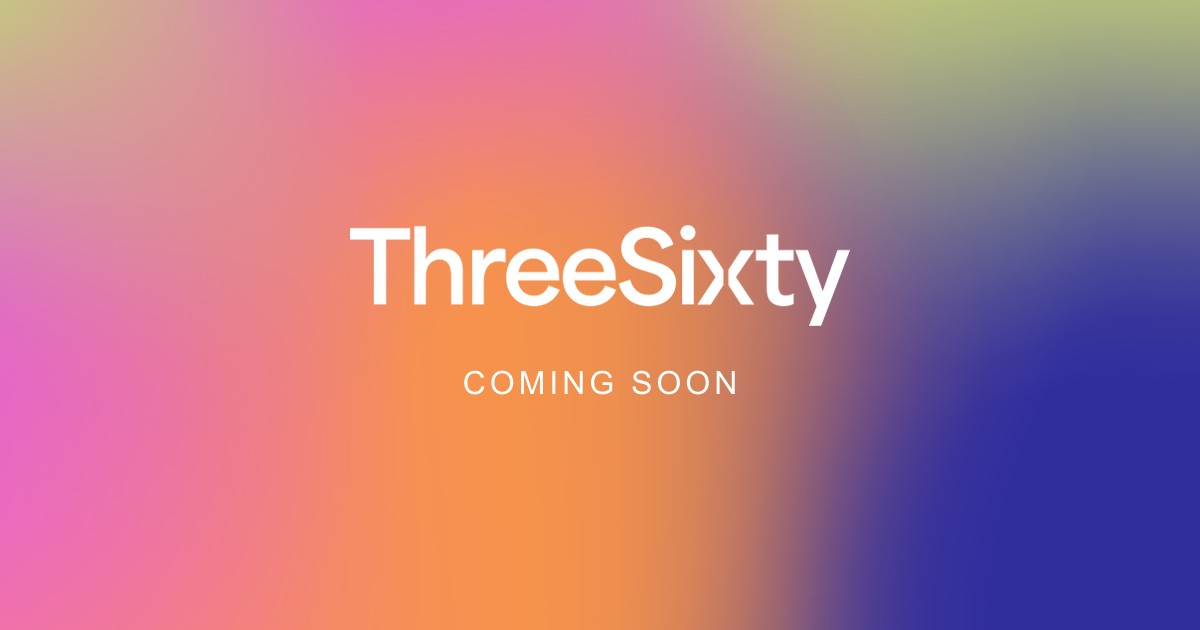
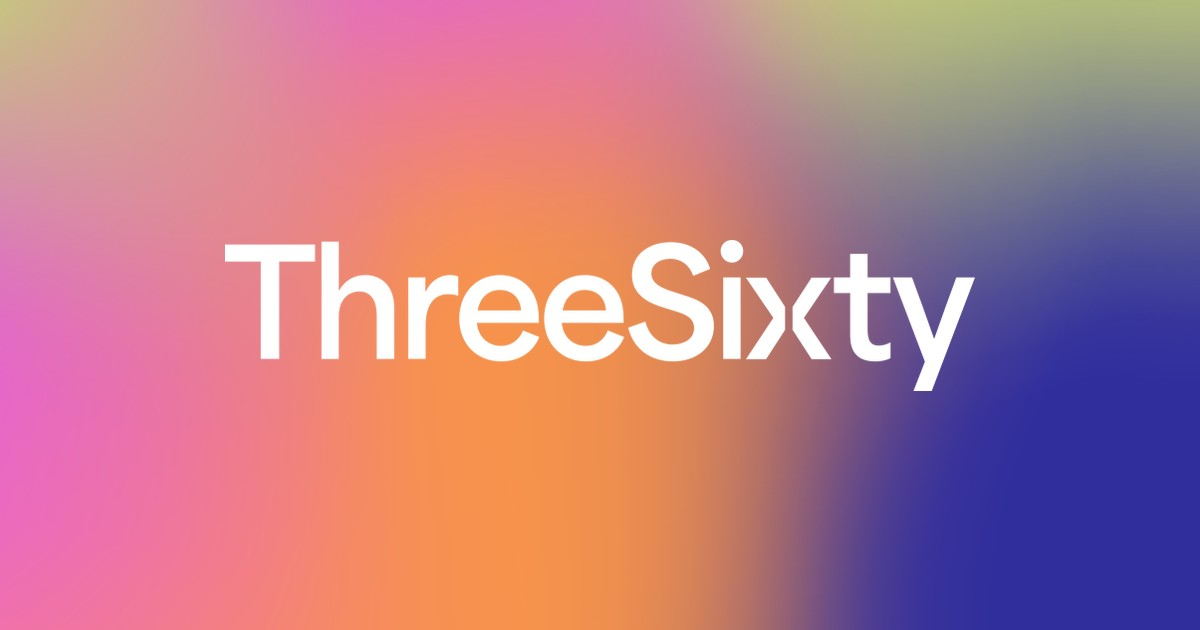
Update OG image and meta description
- Larger logo, removed "Coming Soon" from preview image
- Updated description to: "A collective built for entrepreneurs and creatives who want more than a workspace."

Changed region(s): [[0.185, 0.3619, 0.8325, 0.6333]]

diff --git a/src/app/layout.tsx b/src/app/layout.tsx
@@ -11,12 +11,12 @@ const jakarta = Plus_Jakarta_Sans({
 export const metadata: Metadata = {
   title: "ThreeSixty — Coming Soon",
   description:
-    "A Miami-based collective of entrepreneurs and creatives. Spaces to work, collaborations to grow, experiences to remember. Sign up for early access.",
+    "A collective built for entrepreneurs and creatives who want more than a workspace.",
   metadataBase: new URL("https://threesixty.club"),
   openGraph: {
     title: "ThreeSixty — Coming Soon",
     description:
-      "A Miami-based collective of entrepreneurs and creatives. Spaces to work, collaborations to grow, experiences to remember.",
+      "A collective built for entrepreneurs and creatives who want more than a workspace.",
     url: "https://threesixty.club",
     siteName: "ThreeSixty",
     images: [
@@ -33,7 +33,7 @@ export const metadata: Metadata = {
     card: "summary_large_image",
     title: "ThreeSixty — Coming Soon",
     description:
-      "A Miami-based collective of entrepreneurs and creatives. Spaces to work, collaborations to grow, experiences to remember.",
+      "A collective built for entrepreneurs and creatives who want more than a workspace.",
     images: ["/og-image.jpg"],
   },
 };
